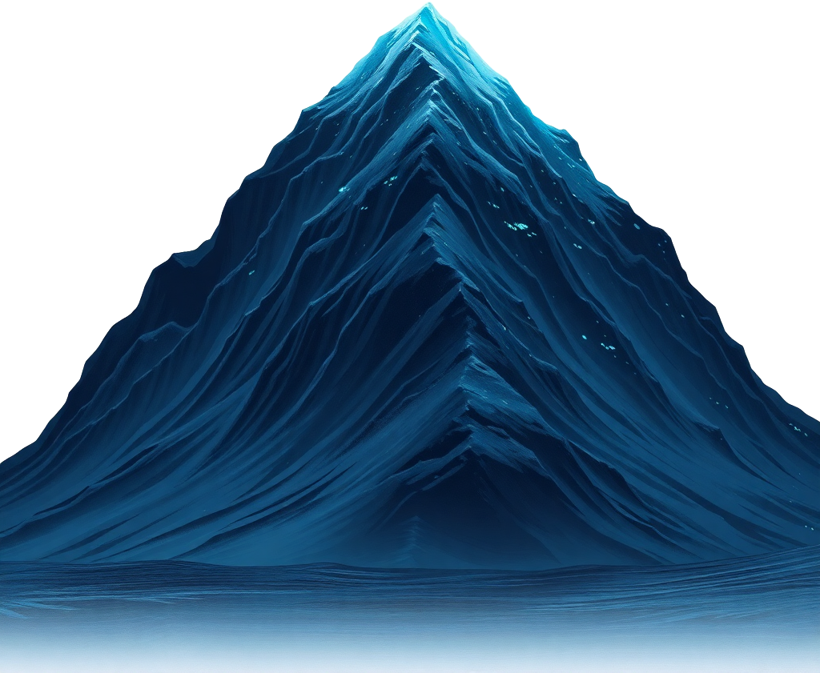
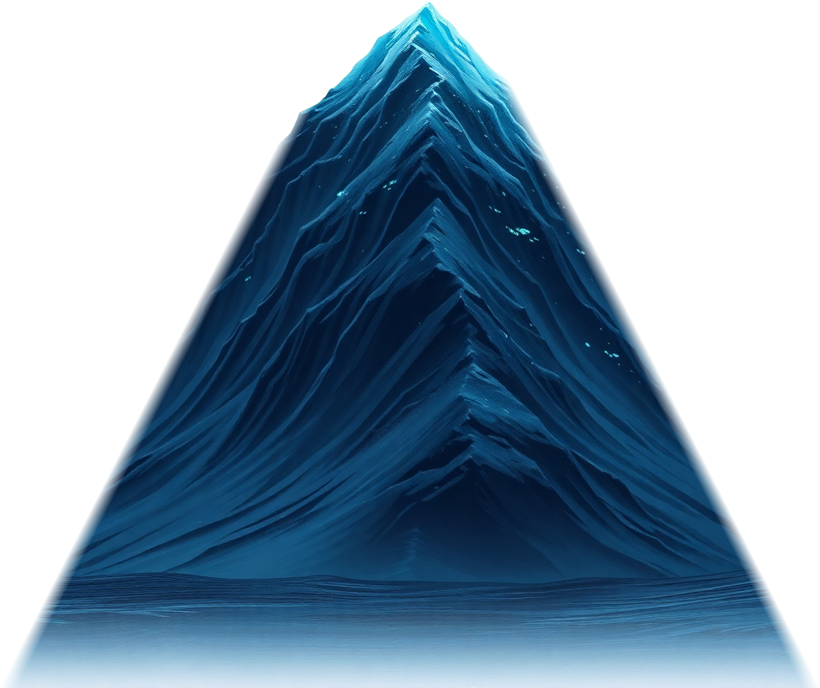
Widen the mountain to ~4-5 tiles with tapered sides
The previous embed+clip hid the sprite's wide base and showed only the narrow
peak (read as ~1 tile). Post-processed the sprite into a clean silhouette that
tapers to feet at the base (diagonal slopes, no vertical sides), so the whole
mountain can be shown. Set width to 5 cells with minimal embed — it now covers
~4-5 tiles. Width is a single constant (MOUNTAIN_W_CELLS) for easy tuning.

86/86 tests pass.

Claude-Session: https://claude.ai/code/session_01YCR2gkiAtGPrFY5YjFaZn2

diff --git a/dist/artifact.html b/dist/artifact.html
@@ -4686,8 +4686,8 @@ function mountainRuns() {
   return runs;
 }
 
-const MOUNTAIN_W_CELLS = 6;        // sprite width (cells); ~5 cells show above ground
-const MOUNTAIN_EMBED_FRAC = 0.34;  // fraction of the sprite buried below the surface
+const MOUNTAIN_W_CELLS = 5;        // sprite width in cells (the sprite tapers to feet, so it reads ~4-5 tiles wide)
+const MOUNTAIN_EMBED_FRAC = 0.07;  // just tuck the feet under the soil line (sprite already tapers, no buried base to hide)
 // One mountain per run (and one mountain run per map, by generation). The sprite's
 // full-width base is buried below the surface and the draw is clipped to above the
 // soil line, so only the naturally-tapering upper mountain shows — it emerges from

diff --git a/dist/index.html b/dist/index.html
@@ -4692,8 +4692,8 @@ function mountainRuns() {
   return runs;
 }
 
-const MOUNTAIN_W_CELLS = 6;        // sprite width (cells); ~5 cells show above ground
-const MOUNTAIN_EMBED_FRAC = 0.34;  // fraction of the sprite buried below the surface
+const MOUNTAIN_W_CELLS = 5;        // sprite width in cells (the sprite tapers to feet, so it reads ~4-5 tiles wide)
+const MOUNTAIN_EMBED_FRAC = 0.07;  // just tuck the feet under the soil line (sprite already tapers, no buried base to hide)
 // One mountain per run (and one mountain run per map, by generation). The sprite's
 // full-width base is buried below the surface and the draw is clipped to above the
 // soil line, so only the naturally-tapering upper mountain shows — it emerges from

diff --git a/src/main.js b/src/main.js
@@ -858,8 +858,8 @@ function mountainRuns() {
   return runs;
 }
 
-const MOUNTAIN_W_CELLS = 6;        // sprite width (cells); ~5 cells show above ground
-const MOUNTAIN_EMBED_FRAC = 0.34;  // fraction of the sprite buried below the surface
+const MOUNTAIN_W_CELLS = 5;        // sprite width in cells (the sprite tapers to feet, so it reads ~4-5 tiles wide)
+const MOUNTAIN_EMBED_FRAC = 0.07;  // just tuck the feet under the soil line (sprite already tapers, no buried base to hide)
 // One mountain per run (and one mountain run per map, by generation). The sprite's
 // full-width base is buried below the surface and the draw is clipped to above the
 // soil line, so only the naturally-tapering upper mountain shows — it emerges from
